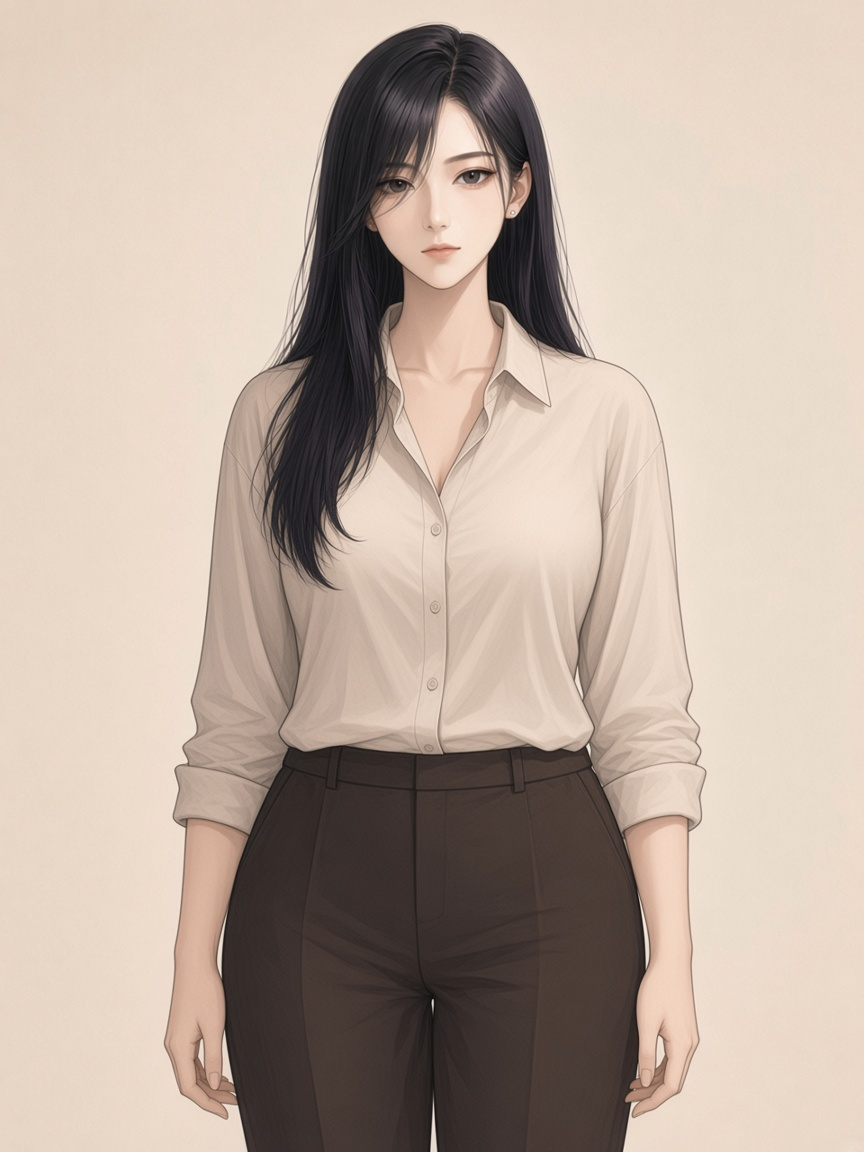
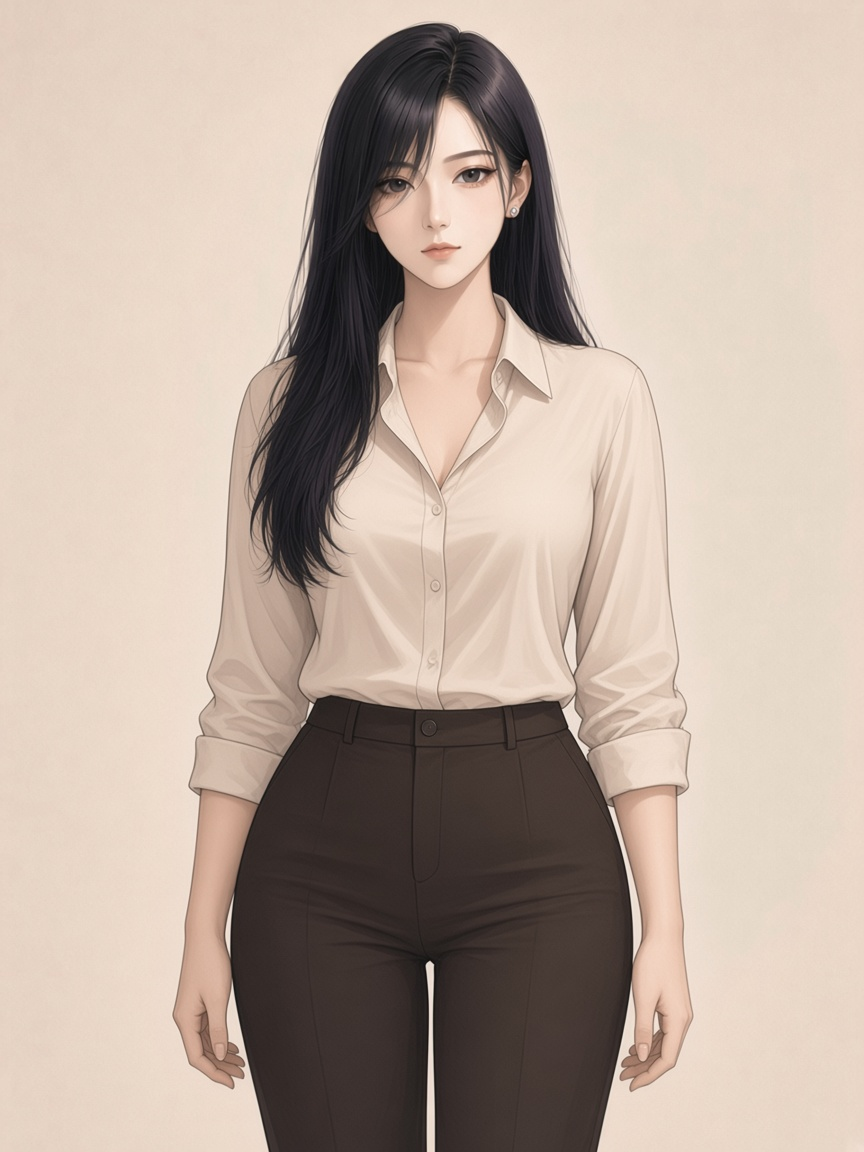
Slim Shen Wan's waist and legs while keeping her upper body.

diff --git a/portrait.js b/portrait.js
@@ -1,4 +1,4 @@
-/* 原创角色沈晚。同一张脸，30 套衣服按日期轮换。身材偏丰满。 */
+/* 原创角色沈晚。同一张脸，30 套衣服按日期轮换。上半身保持，腰细，腿细。 */
 const OUTFITS = [
   { name: "深灰高领，黑风衣", file: "outfit-01.png" },
   { name: "白衬衫，墨蓝背心裙", file: "outfit-02.png" },
